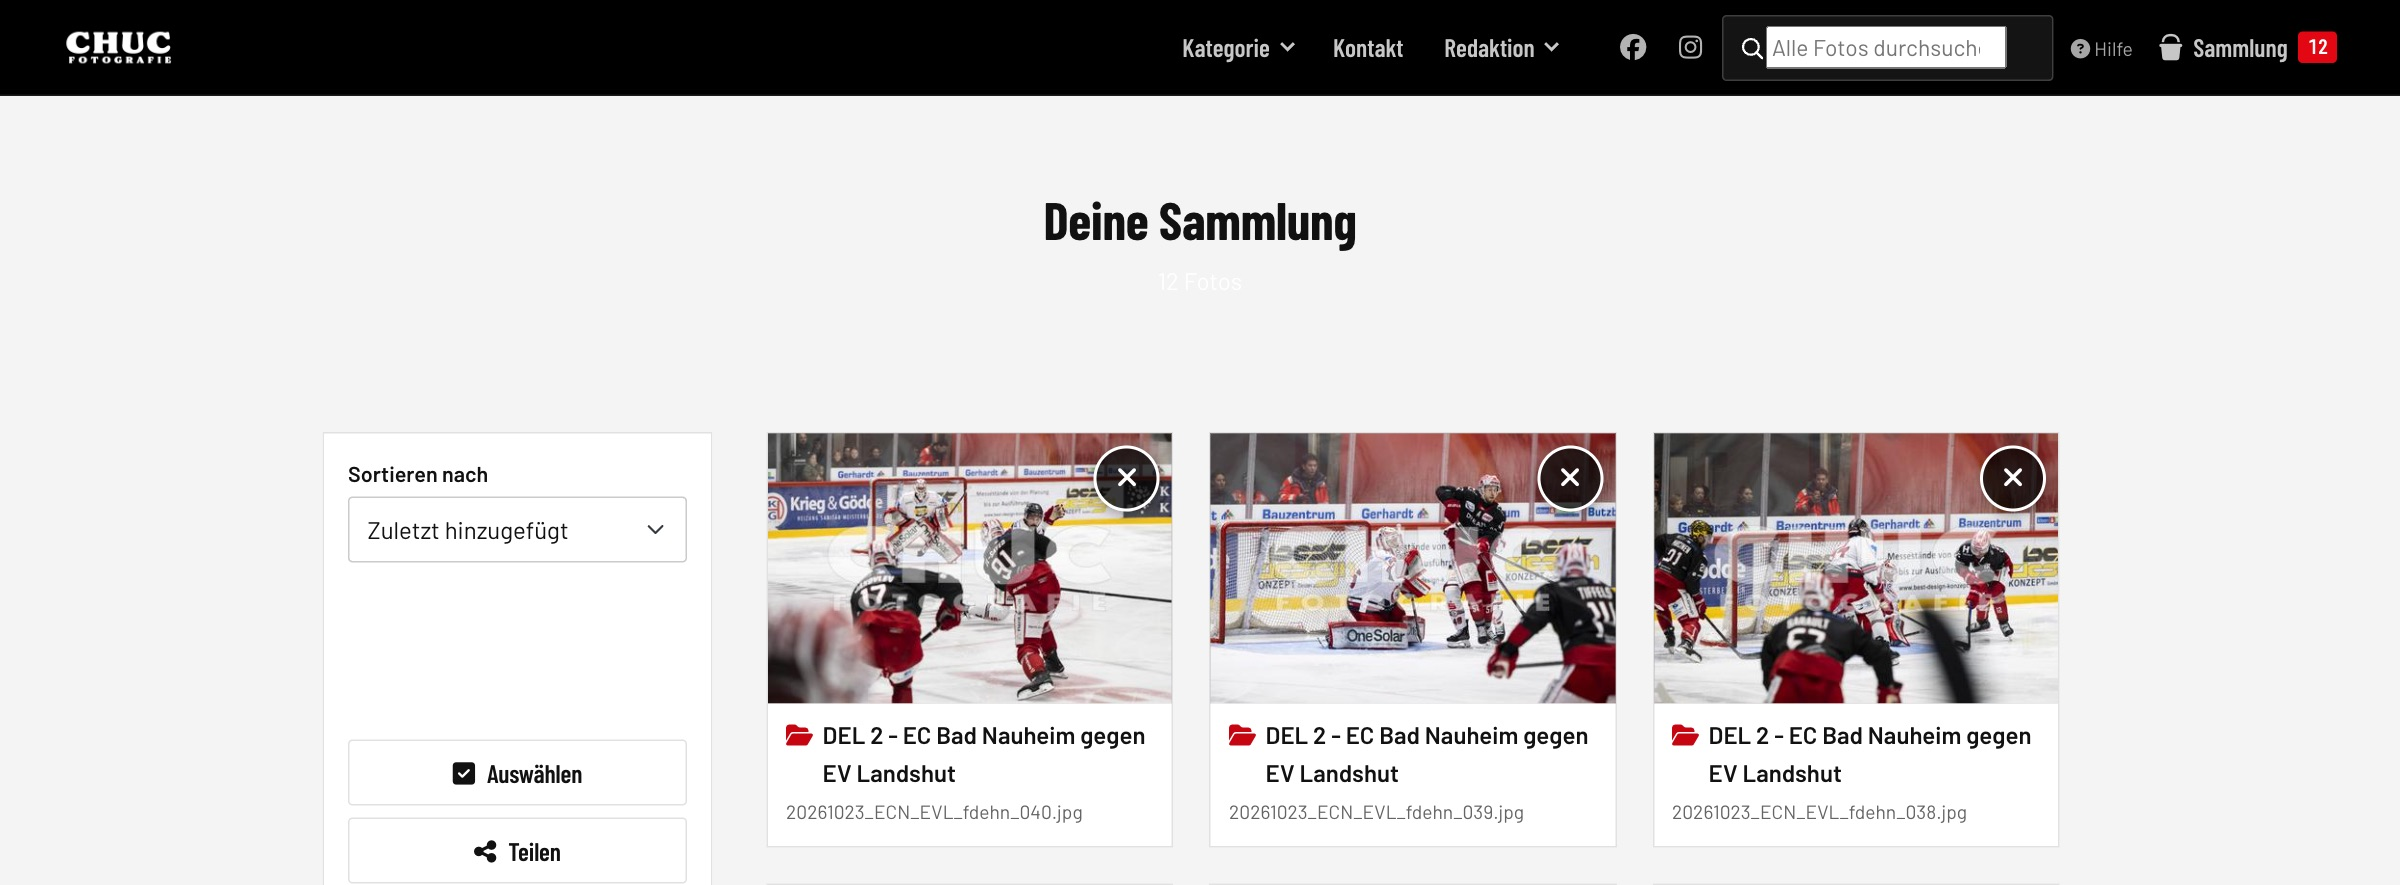
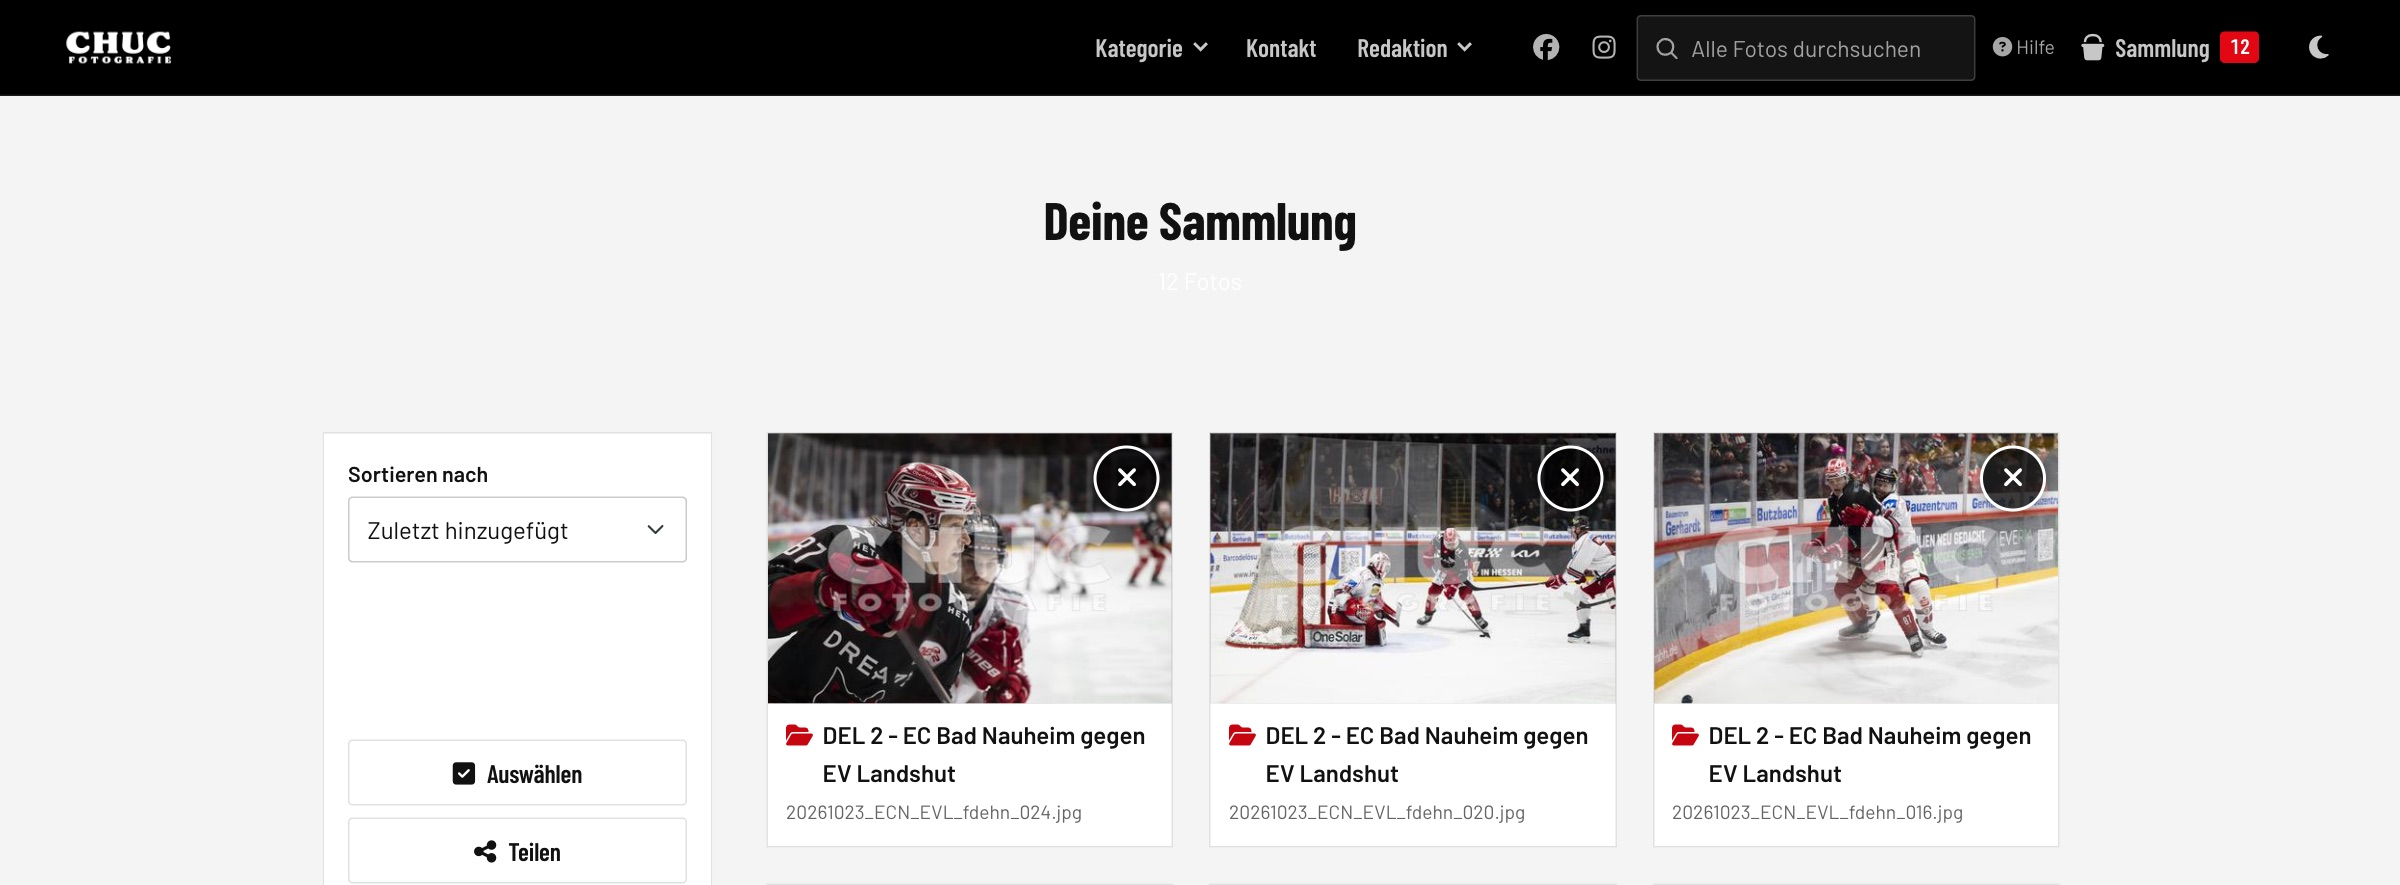
Platform page: new screenshots of chuc.de, plus themes and dark mode
All five screenshots taken again from the local chuc.de (current UI, theme ecbn
like the live site, 1600 px window at 1.5x). Two new ones: the theme choice in
the back end and a gallery in dark mode. scripts/platform-screenshots.mjs takes
them again.

Changed region(s): [[0.3125, 0.4881, 0.875, 0.7932], [0.4375, 0.0305, 1.0, 0.0915], [0.7812, 0.9153, 0.8125, 0.9458]]

diff --git a/src/content/pixplace.js b/src/content/pixplace.js
@@ -62,6 +62,28 @@ const screens = [
       en: 'Upload in the browser: name the gallery, drop the photos.',
     },
   },
+  {
+    name: 'themes', width: 2400, height: 1500,
+    alt: {
+      de: 'Backend, Einstellungen: sechs Farbschemata als Vorschaukacheln, gewählt ist Rot-Schwarz-Weiß, darunter Logo-Upload und die Wahl zwischen heller und dunkler Darstellung',
+      en: 'Back end, settings: six colour schemes as preview tiles, red-black-white selected, logo upload and the choice between light and dark display below',
+    },
+    caption: {
+      de: 'Eigenes Erscheinungsbild: Farbschema und Logo wählen, gilt sofort für alle Besucher.',
+      en: 'Your own look: pick a colour scheme and logo, it applies to all visitors right away.',
+    },
+  },
+  {
+    name: 'dark', width: 2400, height: 1500,
+    alt: {
+      de: 'Dieselbe Galerie in dunkler Darstellung: Fotos mit Fotograf, Bildunterschrift und Knöpfen für Download, Sammlung und Link',
+      en: 'The same gallery in dark mode: photos with photographer, caption and buttons for download, collection and link',
+    },
+    caption: {
+      de: 'Hell oder dunkel: Besucher schalten selbst um, sonst gilt die Vorgabe aus dem Backend.',
+      en: 'Light or dark: visitors switch for themselves, otherwise the back end setting applies.',
+    },
+  },
 ].map((s) => ({ ...s, src: `${shots}/pixplace-${s.name}.jpg`, thumb: `${shots}/pixplace-${s.name}-thumb.jpg` }))
 
 export default {

diff --git a/README.md b/README.md
@@ -23,7 +23,7 @@ npm run preview
 | `src/views/PlatformView.vue` | The web platform (no downloads, no prices), driven by `src/content/pixplace.js`; same texts as the handout in the `chuc_de_2022` repo (`docs/handout/`) |
 | `src/components/ReleaseDownloads.vue` | Download buttons; reads `latest.json` of the app's release workflow, falls back to the stable `latest/` names |
 | `src/components/PriceTable.vue` | Prices + “Request” button (prefilled email until there is a shop) |
-| `public/images/<product>/` | Screenshots (Captioner: `scripts/manual_screenshots.py en --website public/images/captioner`; Design Deck: `make screenshots SITE=…`) |
+| `public/images/<product>/` | Screenshots (Captioner: `scripts/manual_screenshots.py en --website public/images/captioner`; Design Deck: `make screenshots SITE=…`; platform: `scripts/platform-screenshots.mjs` against the local chuc.de stack) |
 | `public/handouts/` | Handouts and Captioner manuals (copies of the PDFs in the app repos; `Pixplace-Handout.pdf` from `chuc_de_2022/docs/handout/`) |
 
 Content strings with markup are rendered with `v-html`. They are static, never put user input in there.
